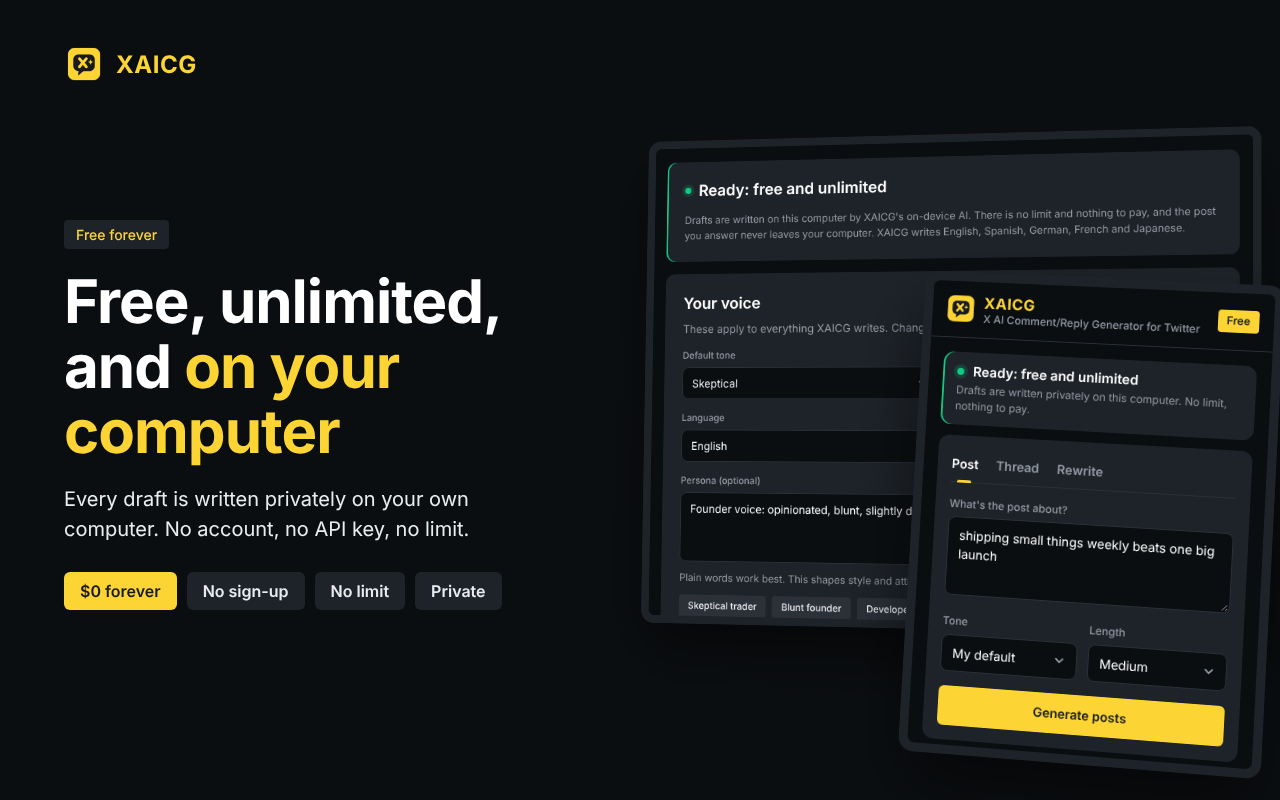
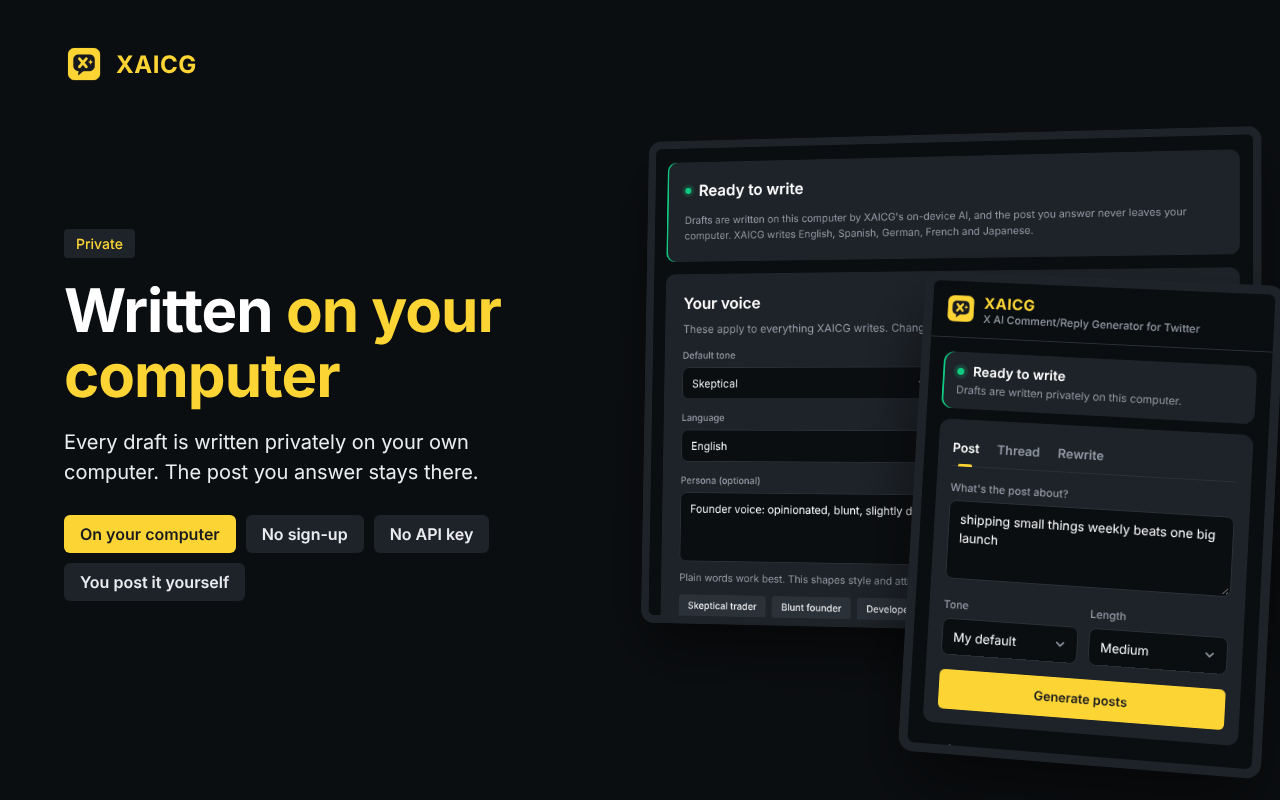
Store images without promotional wording (Chrome Web Store "Red Nickel")
Version 4.0.0 was rejected because a store image carried a "Free forever"
badge. Store images may not show words such as free, $0, unlimited, new
or #1.

- Screenshot 5 is now about privacy ("Written on your computer") instead
  of price; screenshot 1's "Free and unlimited" callout and screenshot 2's
  "9 tones" badge are replaced with plain feature labels.
- The marquee tile shows 1 click, 9 tones, 5 languages instead of
  "$0 forever" and "∞ replies a day". The website's link preview, which
  is not a store asset, keeps its wording.
- The extension no longer shows a "Free" badge in the popup or a "Free
  forever" badge in settings, and the status card says "Ready to write",
  so screenshots of the real screens stay clean.
- The listing guide notes the rule for future images.

Version 4.0.1.

Claude-Session: https://claude.ai/code/session_0179YLdaPpCWykUZvKqfw6Nz

diff --git a/website/index.html b/website/index.html
@@ -27,7 +27,7 @@
   <meta name="twitter:image" content="https://xaicg.uniquelabs.org/assets/og.png">
   <link rel="alternate" type="application/rss+xml" title="XAICG blog" href="/feed.xml">
   <link rel="stylesheet" href="/styles.css">
-  <script type="application/ld+json">{"@context":"https://schema.org","@graph":[{"@type":"Organization","@id":"https://xaicg.uniquelabs.org/#maker","name":"Unique Labs","url":"https://uniquelabs.org"},{"@type":"WebSite","@id":"https://xaicg.uniquelabs.org/#website","url":"https://xaicg.uniquelabs.org/","name":"XAICG","alternateName":"X AI Comment/Reply Generator for Twitter","inLanguage":"en","publisher":{"@id":"https://xaicg.uniquelabs.org/#maker"}},{"@type":"SoftwareApplication","@id":"https://xaicg.uniquelabs.org/#app","name":"XAICG: X AI Comment/Reply Generator for Twitter","alternateName":"XAICG","description":"Free, unlimited AI replies and comments for X (Twitter) in your own voice. XAICG writes on your own computer: no sign-up, no API key, no limit.","url":"https://xaicg.uniquelabs.org/","image":"https://xaicg.uniquelabs.org/assets/og.png","applicationCategory":"BrowserApplication","applicationSubCategory":"Chrome extension","operatingSystem":"Chrome","browserRequirements":"Requires desktop Google Chrome 138 or newer on Windows, macOS, Linux or a Chromebook Plus","softwareVersion":"4.0.0","installUrl":"https://chromewebstore.google.com/detail/lpophlkocboadjhancbdikipnphffgil","author":{"@id":"https://xaicg.uniquelabs.org/#maker"},"publisher":{"@id":"https://xaicg.uniquelabs.org/#maker"},"featureList":["One-click AI replies and questions on any post on X","Nine tones, including Auto","Posts, threads and rewrites from the toolbar popup","A persona that keeps drafts in your own voice","Unlimited and free: no sign-up, no API key","Private: the AI runs on your own computer","English, Spanish, German, French and Japanese","Nothing is posted without you"],"isAccessibleForFree":true,"offers":{"@type":"Offer","price":"0","priceCurrency":"USD","availability":"https://schema.org/InStock","description":"Free forever, unlimited"}}]}</script>
+  <script type="application/ld+json">{"@context":"https://schema.org","@graph":[{"@type":"Organization","@id":"https://xaicg.uniquelabs.org/#maker","name":"Unique Labs","url":"https://uniquelabs.org"},{"@type":"WebSite","@id":"https://xaicg.uniquelabs.org/#website","url":"https://xaicg.uniquelabs.org/","name":"XAICG","alternateName":"X AI Comment/Reply Generator for Twitter","inLanguage":"en","publisher":{"@id":"https://xaicg.uniquelabs.org/#maker"}},{"@type":"SoftwareApplication","@id":"https://xaicg.uniquelabs.org/#app","name":"XAICG: X AI Comment/Reply Generator for Twitter","alternateName":"XAICG","description":"Free, unlimited AI replies and comments for X (Twitter) in your own voice. XAICG writes on your own computer: no sign-up, no API key, no limit.","url":"https://xaicg.uniquelabs.org/","image":"https://xaicg.uniquelabs.org/assets/og.png","applicationCategory":"BrowserApplication","applicationSubCategory":"Chrome extension","operatingSystem":"Chrome","browserRequirements":"Requires desktop Google Chrome 138 or newer on Windows, macOS, Linux or a Chromebook Plus","softwareVersion":"4.0.1","installUrl":"https://chromewebstore.google.com/detail/lpophlkocboadjhancbdikipnphffgil","author":{"@id":"https://xaicg.uniquelabs.org/#maker"},"publisher":{"@id":"https://xaicg.uniquelabs.org/#maker"},"featureList":["One-click AI replies and questions on any post on X","Nine tones, including Auto","Posts, threads and rewrites from the toolbar popup","A persona that keeps drafts in your own voice","Unlimited and free: no sign-up, no API key","Private: the AI runs on your own computer","English, Spanish, German, French and Japanese","Nothing is posted without you"],"isAccessibleForFree":true,"offers":{"@type":"Offer","price":"0","priceCurrency":"USD","availability":"https://schema.org/InStock","description":"Free forever, unlimited"}}]}</script>
 </head>
 <body id="top">
   <!-- Generated by scripts/build-site.mjs. Edit the sources it names, not this file. -->
@@ -260,8 +260,8 @@
             </ul>
           </div>
           <figure class="stage popups">
-            <img width="760" height="2006" src="/assets/shots/compose.png" loading="lazy" decoding="async" alt="The XAICG popup with an idea typed in and three post drafts for X, each with Copy and Open in X buttons.">
-            <img width="760" height="2284" src="/assets/shots/thread.png" loading="lazy" decoding="async" alt="The XAICG popup showing a four-post thread generated from one idea, with a Copy thread button.">
+            <img width="760" height="1970" src="/assets/shots/compose.png" loading="lazy" decoding="async" alt="The XAICG popup with an idea typed in and three post drafts for X, each with Copy and Open in X buttons.">
+            <img width="760" height="2248" src="/assets/shots/thread.png" loading="lazy" decoding="async" alt="The XAICG popup showing a four-post thread generated from one idea, with a Copy thread button.">
           </figure>
         </div>
 

diff --git a/extension/lib/device-ui.js b/extension/lib/device-ui.js
@@ -63,18 +63,18 @@ function words(state, variant) {
     case "available":
       return {
         tone: "on",
-        title: "Ready: free and unlimited",
+        title: "Ready to write",
         text: popup
-          ? "Drafts are written privately on this computer. No limit, nothing to pay."
-          : `Drafts are written on this computer by XAICG's on-device AI. There is no limit and nothing to pay, and the post you answer never leaves your computer. XAICG writes ${LANGUAGES}.`,
+          ? "Drafts are written privately on this computer."
+          : `Drafts are written on this computer by XAICG's on-device AI, and the post you answer never leaves your computer. XAICG writes ${LANGUAGES}.`,
       };
     case "downloadable":
       return {
         tone: "setup",
         title: "One step left: set up the AI",
         text: popup
-          ? "XAICG's AI runs on your computer. It needs a one-time download, then it's free and unlimited."
-          : "XAICG writes with an AI model that runs on this computer. It needs a one-time download, which can take a few minutes. After that, drafts are free and unlimited, and nothing you write is sent anywhere.",
+          ? "XAICG's AI runs on your computer. It needs a one-time download, then it's ready."
+          : "XAICG writes with an AI model that runs on this computer. It needs a one-time download, which can take a few minutes. After that, drafts are written right here, and nothing you write is sent anywhere.",
         action: "Set up",
       };
     case "downloading":

diff --git a/extension/options.html b/extension/options.html
@@ -16,7 +16,6 @@
         <small>X AI Comment/Reply Generator for Twitter</small>
       </div>
     </div>
-    <span class="badge pro">Free forever</span>
   </header>
 
   <main>
@@ -26,7 +25,7 @@
       <h2 class="welcome-title">Welcome to XAICG</h2>
       <p>Open <a href="https://x.com" target="_blank" rel="noopener">x.com</a>. Every post now has <b>AI Reply</b> and <b>Question</b> buttons, and the arrow next to them opens tones. Drafts are typed into the reply box for you to review. Nothing is posted until you press Reply.</p>
       <p>For original posts and threads, click the XAICG icon in the toolbar.</p>
-      <p id="welcomeSetup" hidden><b>One step first:</b> press <b>Set up</b> below. The AI model is downloaded once, and then XAICG is free and unlimited.</p>
+      <p id="welcomeSetup" hidden><b>One step first:</b> press <b>Set up</b> below. The AI model is downloaded once, and then XAICG is ready to write.</p>
     </section>
 
     <section id="device" aria-label="On-device AI" hidden></section>

diff --git a/store/scenes/promo.html b/store/scenes/promo.html
@@ -9,9 +9,16 @@
 <body>
 <section class="pitch">
   <div class="lockup"><img src="/extension/icons/icon128.png" alt=""><span>XAICG</span></div>
-  <h1>Free AI replies for X, in <em>your own voice</em></h1>
+  <h1><span class="og-only">Free </span>AI replies for X, in <em>your own voice</em></h1>
   <p class="tag">X AI Comment/Reply Generator for Twitter</p>
-  <dl class="stats">
+  <!-- Store tiles may not carry price or promotional claims (Chrome Web Store
+       policy); the website's link preview is not a store asset. -->
+  <dl class="stats store-only">
+    <div><dt>1</dt><dd>click</dd></div>
+    <div><dt>9</dt><dd>tones</dd></div>
+    <div><dt>5</dt><dd>languages</dd></div>
+  </dl>
+  <dl class="stats og-only">
     <div><dt>$0</dt><dd>forever</dd></div>
     <div><dt>∞</dt><dd>replies a day</dd></div>
     <div><dt>9</dt><dd>tones</dd></div>

diff --git a/extension/content.js b/extension/content.js
@@ -694,7 +694,7 @@
   function applyStatus(btn) {
     const state = deviceStatus?.state;
     const note =
-      state === "available" ? "Free and unlimited" : state === "downloadable" || state === "downloading" ? "Set up XAICG's AI first (XAICG Settings)" : state ? "XAICG's AI can't run on this computer" : "";
+      state === "available" ? "Written on this computer" : state === "downloadable" || state === "downloading" ? "Set up XAICG's AI first (XAICG Settings)" : state ? "XAICG's AI can't run on this computer" : "";
     btn.classList.toggle("not-ready", Boolean(state) && state !== "available");
     btn.title = note ? `${btn.dataset.baseTitle} · ${note}` : btn.dataset.baseTitle;
   }

diff --git a/store/scenes/promo.css b/store/scenes/promo.css
@@ -62,3 +62,9 @@ h1 em { font-style: normal; color: var(--primary); }
 [data-size="small"] .lockup img { width: 72px; height: 72px; }
 [data-size="small"] h1, [data-size="small"] .demo, [data-size="small"] .stats { display: none; }
 [data-size="small"] .tag { margin-top: 20px; font-size: 20px; font-weight: 500; color: var(--body); }
+
+/* The website's link preview may say it is free; the store tiles may not. */
+html:not([data-size="og"]) .og-only,
+html[data-size="og"] .store-only {
+  display: none !important;
+}

diff --git a/extension/popup.html b/extension/popup.html
@@ -15,7 +15,6 @@
         <small>X AI Comment/Reply Generator for Twitter</small>
       </div>
     </div>
-    <span id="planBadge" class="badge pro">Free</span>
   </header>
 
   <main>

diff --git a/store/listing.md b/store/listing.md
@@ -188,11 +188,13 @@ XAICG is an independent product. It is not affiliated with, endorsed by or spons
 | Screenshot 2 | `store/assets/screenshot-2.png` (tone menu) | 1280×800 |
 | Screenshot 3 | `store/assets/screenshot-3.png` (posts and threads) | 1280×800 |
 | Screenshot 4 | `store/assets/screenshot-4.png` (voice settings) | 1280×800 |
-| Screenshot 5 | `store/assets/screenshot-5.png` (free, unlimited, on your computer) | 1280×800 |
+| Screenshot 5 | `store/assets/screenshot-5.png` (written on your computer) | 1280×800 |
 | Small promo tile | `store/assets/promo-small.png` | 440×280 |
 | Marquee promo tile | `store/assets/promo-marquee.png` | 1400×560 |
 
 Upload the screenshots in this order: the first one is what people see in search results. They show the real extension on a sample timeline with made-up accounts, not X's logo or anyone's real posts.
+
+**Keep promotional words out of the images.** The Chrome Web Store rejects images (screenshots, promo tiles, icon) that carry badges or text such as "free", "free forever", "$0", "unlimited", "new", "#1", "recommended" or "premium" (violation "Red Nickel": mimicking ranking, performance, status or promotional information). Version 4.0.0 was rejected for a "Free forever" badge. The images now describe features only, and the extension's own screens no longer show a "Free" badge, so screenshots of them stay clean. Saying the extension is free belongs in the description text, in plain sentences.
 
 ### Additional fields
 
@@ -287,7 +289,7 @@ The publisher account may ask whether you are a **trader** (for listing in the E
 ```
 XAICG needs no username, password or license.
 
-Setup: after installing, the settings page opens. Under "One step left: set up the AI", press "Set up" and wait for the one-time download of the on-device AI model (a progress bar shows it). When the card says "Ready: free and unlimited", XAICG is ready.
+Setup: after installing, the settings page opens. Under "One step left: set up the AI", press "Set up" and wait for the one-time download of the on-device AI model (a progress bar shows it). When the card says "Ready to write", XAICG is ready.
 
 The on-device model needs desktop Chrome 138 or later on Windows, macOS, Linux or a Chromebook Plus, about 22 GB of free disk space, and a graphics card with more than 4 GB of memory or 16 GB of RAM. On a computer that cannot run it, the settings page says "Not available on this computer" and lists these requirements.
 
